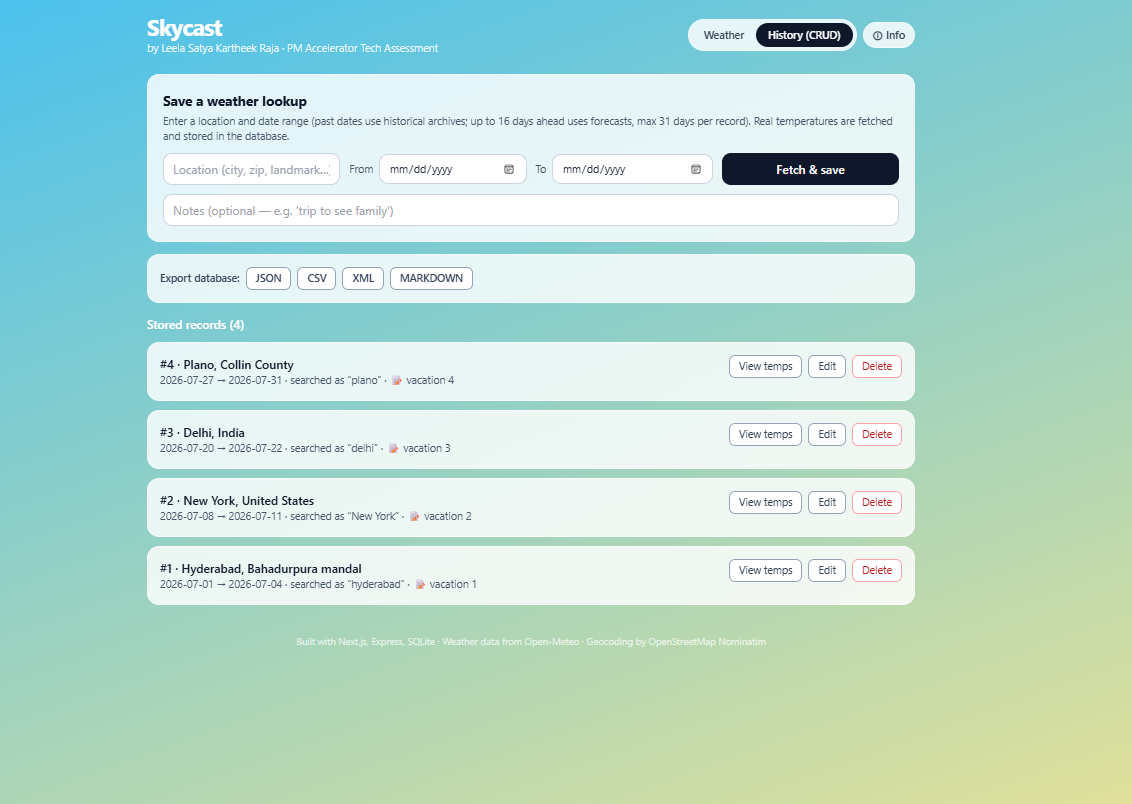
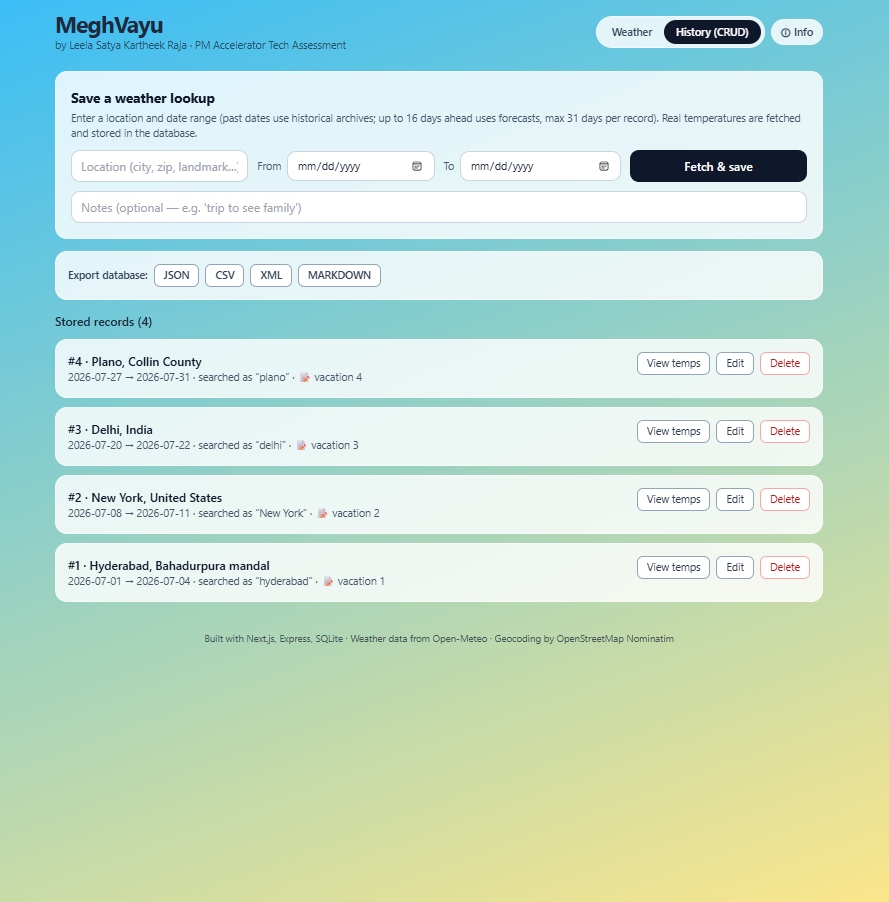
Update README and screenshots

diff --git a/README.md b/README.md
@@ -61,7 +61,7 @@ weather summaries as a next step.
 |---|---|---|
 | Frontend | **Next.js 14 (React)** + Tailwind CSS | JS framework per assessment rules; responsive, web-first |
 | Backend | **Node.js + Express** | RESTful API, one language across the stack |
-| Database | **SQLite** (better-sqlite3) | Zero-config persistence — reviewers can run it with no DB setup |
+| Database | **SQLite** (better-sqlite3) | Zero-config persistence, reviewers can run it with no DB setup |
 | Weather data | **Open-Meteo** (forecast + historical archive APIs) | Free, no API key, supports past date ranges |
 | Geocoding | **OpenStreetMap Nominatim** | Free fuzzy matching for cities, zips, landmarks, coordinates |
 | Extra APIs | OpenStreetMap embed, Google Maps link, YouTube Data API (optional key) | Assessment section 2.2 |
@@ -92,17 +92,17 @@ Optional: copy `frontend/.env.local.example` to `.env.local` to change the backe
 
 ---
 
-## Assessment 1 — Frontend features
+## Assessment 1 [Frontend features]
 
-- **Flexible location input**: one search box accepts city, town, zip/postal code, landmarks ("Eiffel Tower"), or raw GPS coordinates ("40.71,-74.00"). Input is geocoded with fuzzy matching — the resolved place name is always shown so the user can confirm.
+- **Flexible location input**: one search box accepts city, town, zip/postal code, landmarks ("Eiffel Tower"), or raw GPS coordinates ("40.71,-74.00"). Input is geocoded with fuzzy matching the resolved place name is always shown so the user can confirm.
 - **Current location**: "📍 My location" uses the browser Geolocation API (with permission-denied and timeout handling).
 - **Current weather display**: temperature, feels-like, condition + icon, humidity, wind, pressure, high/low, sunrise/sunset.
 - **5-day forecast** (§1.1): responsive card grid with icons, conditions, highs/lows, and precipitation chance.
 - **Error handling** (§1.2): location not found, backend unreachable, geolocation denied, empty input — each shows a clear, actionable message.
 - **Responsive design**: Tailwind mobile-first breakpoints (`sm/md/lg`), fluid grids (2→3→5 forecast columns), flexible search bar layout. Works on phone, tablet, and desktop.
-- **Traveler-minded extras**: UV-index sunscreen tip, sunrise/sunset for planning, and a signature touch — the page background theme shifts with live conditions (clear/cloudy/rain/snow/storm, day vs night).
+- **Traveler-minded extras**: UV-index sunscreen tip, sunrise/sunset for planning, and a signature touch, the page background theme shifts with live conditions (clear/cloudy/rain/snow/storm, day vs night).
 
-## Assessment 2 — Backend features
+## Assessment 2 [Backend features]
 
 REST API (all JSON, central error handler):
 
@@ -110,21 +110,21 @@ REST API (all JSON, central error handler):
 |---|---|---|
 | GET | `/api/health` | Health check |
 | GET | `/api/weather?location=…` or `?lat=…&lon=…` | Current weather + 5-day forecast |
-| POST | `/api/records` | **CREATE** — location + date range → fetches real temps → stores |
+| POST | `/api/records` | **CREATE** : location + date range → fetches real temps → stores |
 | GET | `/api/records` | **READ** all stored records |
 | GET | `/api/records/:id` | **READ** one record |
-| PUT | `/api/records/:id` | **UPDATE** — re-validates; re-fetches temps if location/range changed |
+| PUT | `/api/records/:id` | **UPDATE** : re-validates; re-fetches temps if location/range changed |
 | DELETE | `/api/records/:id` | **DELETE** a record |
 | GET | `/api/export?format=json\|csv\|xml\|markdown` | **Export** (§2.3) all records as file download |
-| GET | `/api/extras?location=…` | **§2.2** — map embed + Google Maps link + YouTube videos |
+| GET | `/api/extras?location=…` | **§2.2** : map embed + Google Maps link + YouTube videos |
 
 **Validation** (§2.1):
 - Date ranges: format, real calendar dates (rejects 2024-02-31), start ≤ end, ≤31 days, within Open-Meteo's data window (1940 → +16 days).
 - Locations: must resolve via geocoder (fuzzy match allowed); clear 404 with suggestions if not found.
-- Updates: same validation; `temperature_data` is always re-derived from the APIs when location/dates change, so stored weather can never contradict the stored location — users edit location/dates/notes, not raw temperatures.
+- Updates: same validation; `temperature_data` is always re-derived from the APIs when location/dates change, so stored weather can never contradict the stored location, users edit location/dates/notes, not raw temperatures.
 
 **Design decisions**:
-- Historical ranges use Open-Meteo's archive API; near-future ranges use the forecast API — chosen automatically.
+- Historical ranges use Open-Meteo's archive API; near-future ranges use the forecast API are chosen automatically.
 - SQLite chosen deliberately: reviewers clone and run with zero database setup. Swappable for Postgres via the single `db.js` module.
 
 ## Project structure
@@ -143,7 +143,7 @@ frontend/
 
 ## Debugging notes (real issues found & fixed)
 
-1. **Ambiguous zip codes resolved internationally.** Testing with `76201` (Denton, TX) returned Šiauliai, Lithuania — Nominatim matched the digits to a foreign postal code. Fix: bare 5-digit codes are now biased to `countrycodes=us`, while longer codes (e.g., Indian 6-digit PINs) and "zip, country" queries still resolve worldwide. Verified with mixed US/India test data.
+1. **Ambiguous zip codes resolved internationally.** Testing with `76201` (Denton, TX) returned Šiauliai, Lithuania :  Nominatim matched the digits to a foreign postal code. Fix: bare 5-digit codes are now biased to `countrycodes=us`, while longer codes (e.g., Indian 6-digit PINs) and "zip, country" queries still resolve worldwide. Verified with mixed US/India test data.
 2. **CSV exports showed garbled characters in Excel.** Non-ASCII place names (Cyrillic, Lithuanian) rendered as mojibake because Excel doesn't assume UTF-8. Fix: prepend a UTF-8 BOM to CSV output.
 3. **Node 24 native-module build failure.** `better-sqlite3@11` had no prebuilt binary for Node 24 and attempted a source compile requiring Visual Studio C++ tools. Fix: upgraded to `better-sqlite3@^12`, which ships Node 24 prebuilds.
 
@@ -153,7 +153,7 @@ frontend/
 cd backend
 npm test
 ```
-16 tests cover date-range validation (format, impossible dates like Feb 31, range limits, archive/forecast windows), GPS coordinate parsing, and the insights engine — using Node's built-in `node:test` runner, so no extra dev dependencies.
+16 tests cover date-range validation (format, impossible dates like Feb 31, range limits, archive/forecast windows), GPS coordinate parsing, and the insights engine is using Node's built-in `node:test` runner, so no extra dev dependencies.
 
 
 
